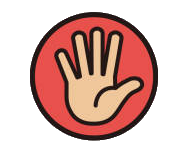
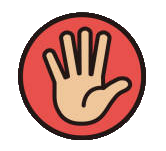
Button functionality.

Changed region(s): [[0.0904, 0.0795, 0.9036, 0.9272], [0.4819, 0.6358, 0.512, 0.7152], [0.4518, 0.9272, 0.5422, 0.9536]]

diff --git a/src/App.jsx b/src/App.jsx
@@ -1,20 +1,38 @@
-import logo from './logo.svg';
-import scissorButton from './images/scissors-button.png';
-import paperButton from './images/paper-button.png';
-import rockButton from './images/rock-button.png';
-import './App.css';
+import logo from "./logo.svg";
+import scissorButton from "./images/scissors-button.png";
+import paperButton from "./images/paper-button.png";
+import rockButton from "./images/rock-button.png";
+import "./App.css";
 
 function App() {
   return (
     <div className="App">
       <img src={logo} className="App-logo" alt="logo" />
       <div className="Buttons-container">
-        <img src={rockButton} alt="Scissors Button" />
-        <img src={paperButton} alt="Scissors Button" />
-        <img src={scissorButton} alt="Scissors Button" />
+        <button onClick={rockSelection}>
+          <img src={rockButton} alt="Rock Button" />
+        </button>
+        <button onClick={paperSelection}>
+          <img src={paperButton} alt="Paper Button" />
+        </button>
+        <button onClick={scissorsSelection}>
+          <img src={scissorButton} alt="Scissors Button" />
+        </button>
       </div>
     </div>
   );
+}
+
+function rockSelection() {
+  console.log("rock Clicked");
+}
+
+function paperSelection() {
+  console.log("paper Clicked");
+}
+
+function scissorsSelection() {
+  console.log("scissors Clicked");
 }
 
 export default App;

diff --git a/src/App.css b/src/App.css
@@ -36,3 +36,14 @@
     transform: rotate(0deg);
   }
 }
+
+button {
+  border: none;
+  background-color: transparent;
+}
+
+button:hover img {
+  transform: scale(
+    1.25
+  ); /* (150% zoom - Note: if the zoom is too large, it will go outside of the viewport) */
+}
